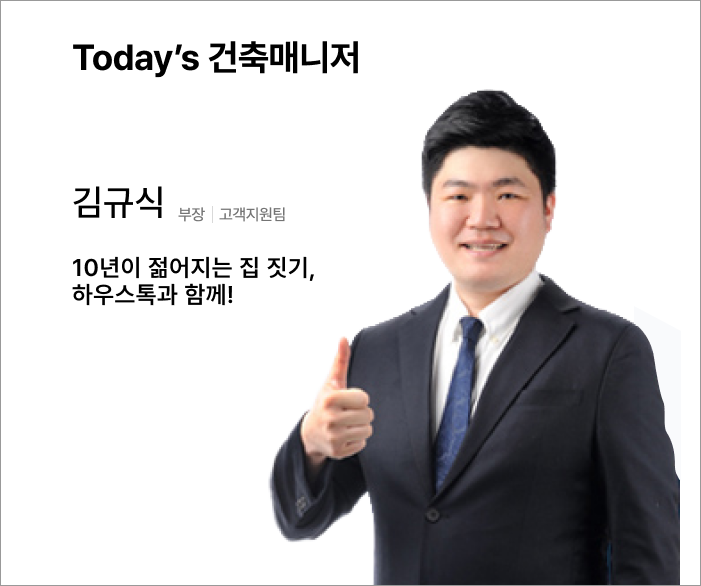
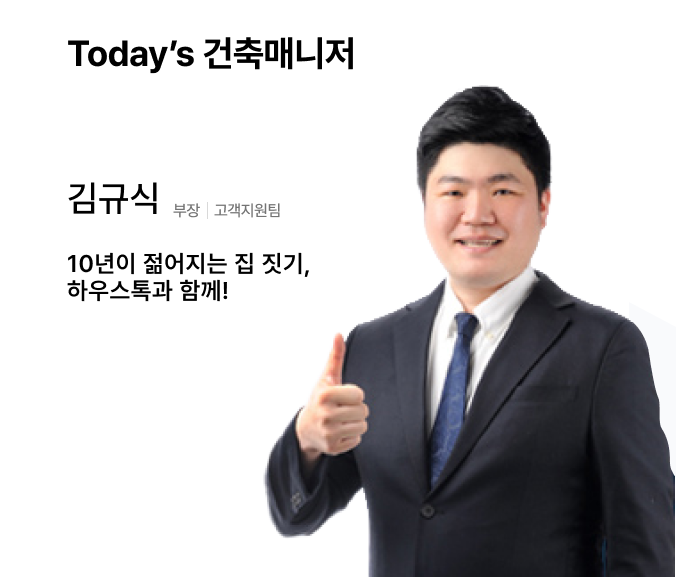
update img

diff --git a/assets/css/media3.css b/assets/css/media3.css
@@ -6,7 +6,12 @@
 -------------------------------------------------------------------*/
 
 @media screen and (max-width: 1669.98px) {
+  .conseling_img_gp img {
+    object-fit: cover;
+    object-position:left;
+    border: 1px solid #999999;
   
+  }
   .houesetalknews_list .mySwiper_list .swiper-button-next {
     right: 200px;
   }

diff --git a/assets/css/common.css b/assets/css/common.css
@@ -458,10 +458,9 @@ img {
 }
 .conseling_img_gp {
   width: calc(50%-18px);
-  height: auto;
+  height: 586px;
 }
 .conseling_img_gp img {
-  object-fit: cover;
   object-position:left;
 }
 .conseling_inn .conseling_form form {
